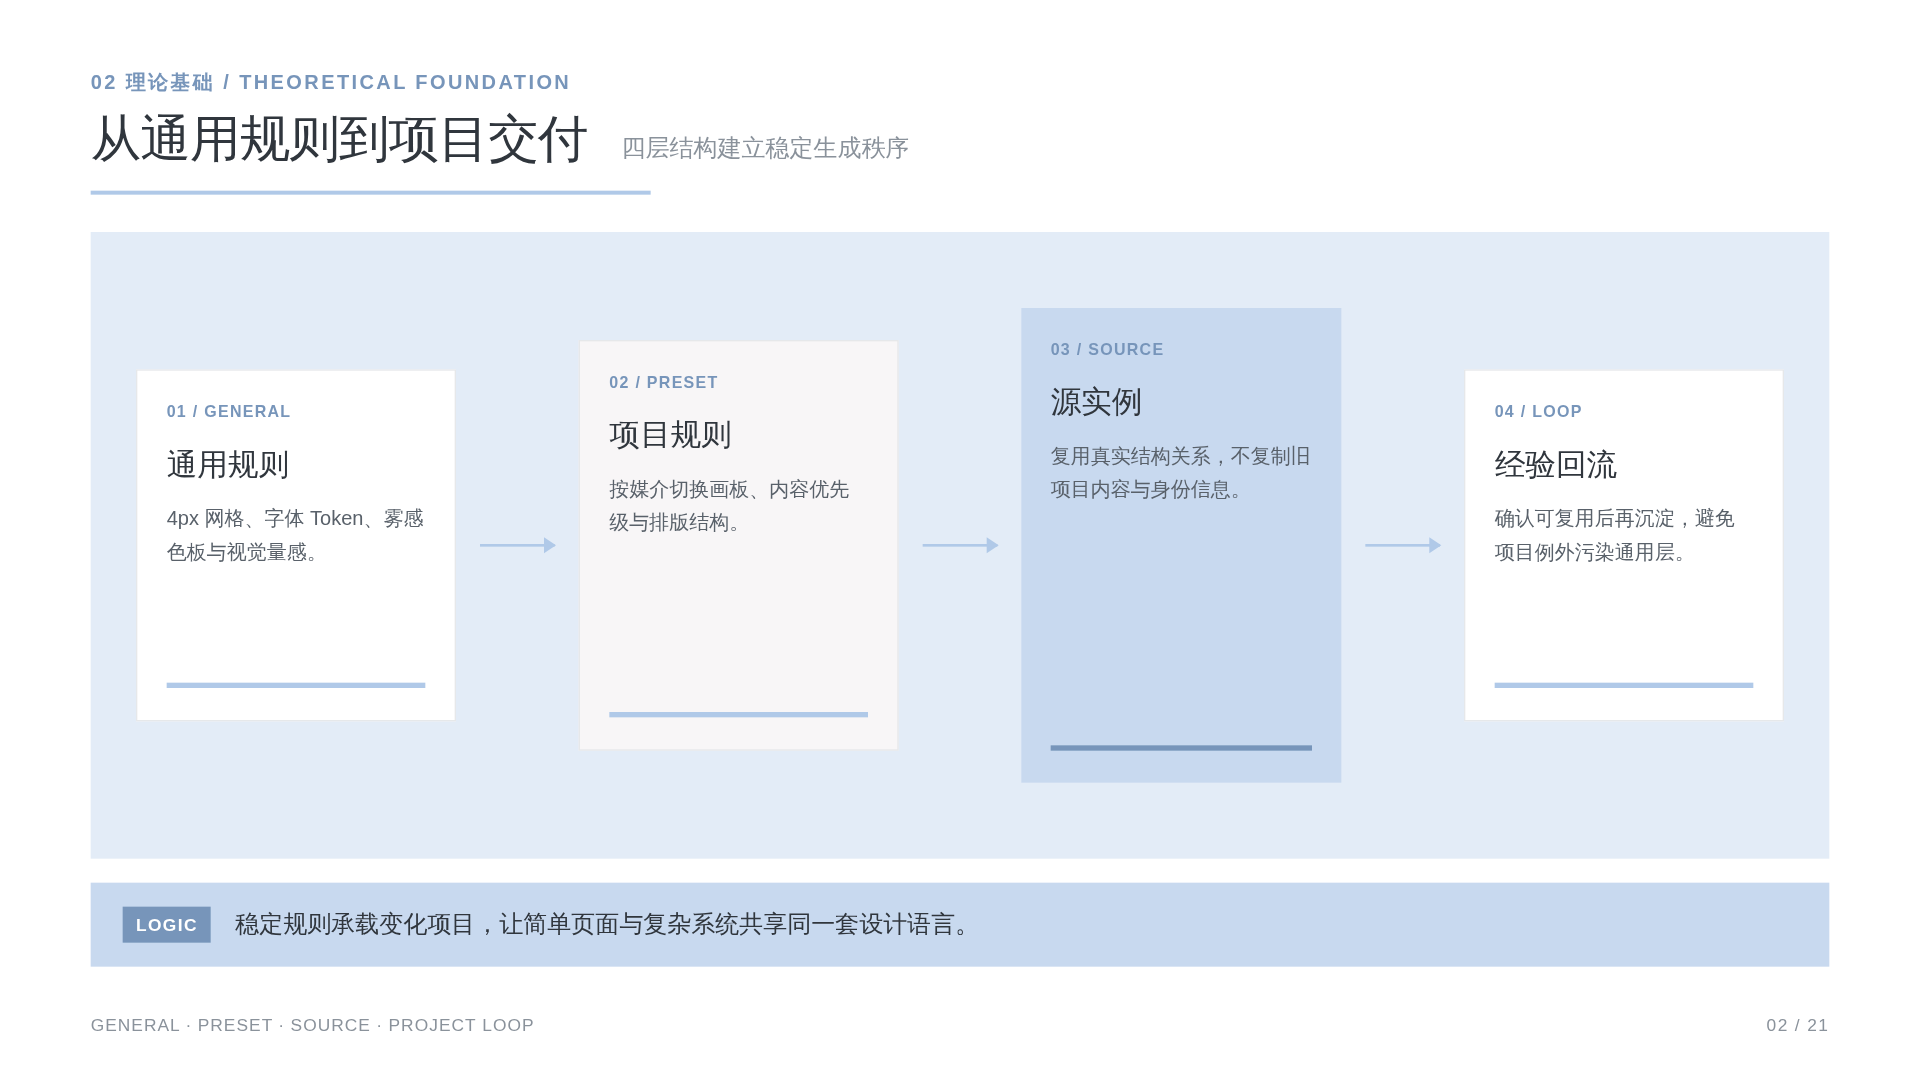
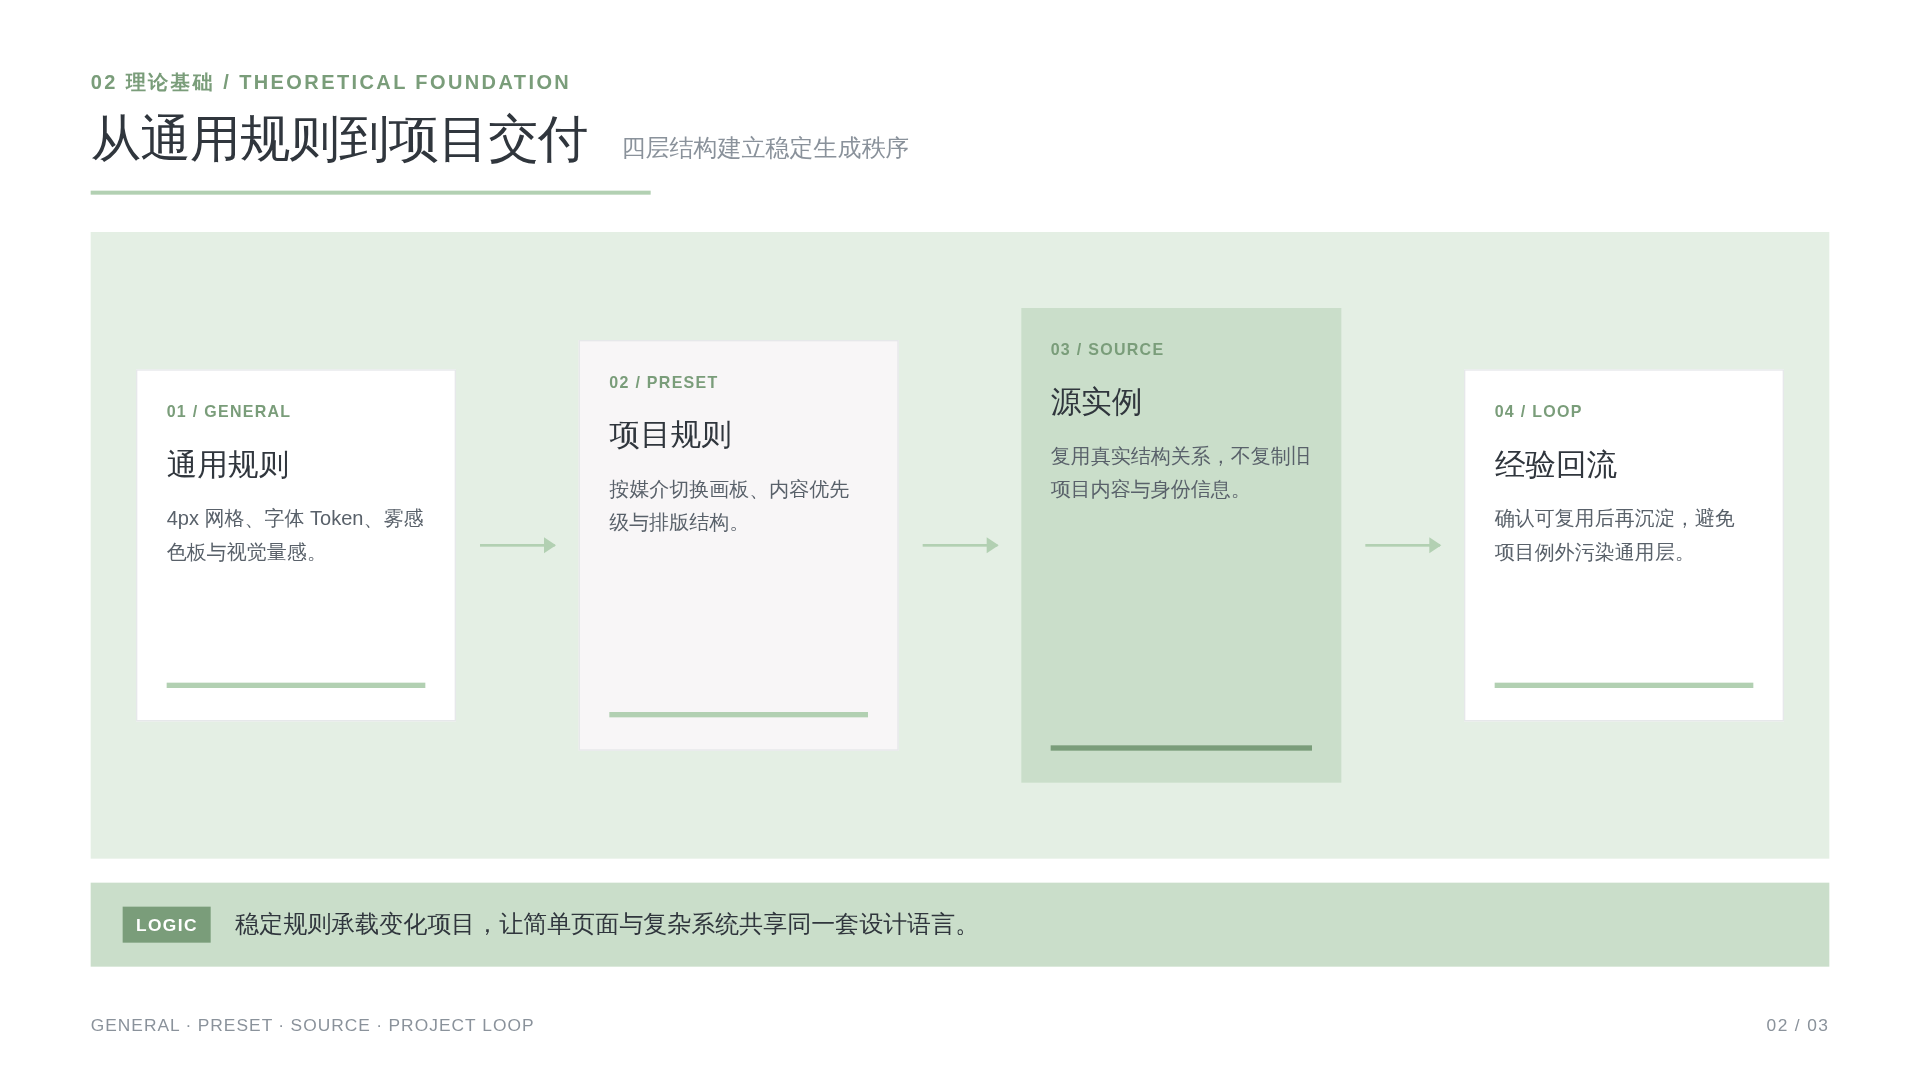
更新交付物预览编号与配色

diff --git a/design-minimalist-613/assets/template/projects/ppt-research/example.html b/design-minimalist-613/assets/template/projects/ppt-research/example.html
@@ -7,7 +7,7 @@
 <style>
 :root{--w:1440px;--h:810px;--ink:#30363D;--text:#59616A;--muted:#8A929B;--border:#E6E8EA;--surface:#F8F6F7;--font:"PingFang SC","Microsoft YaHei","Noto Sans CJK SC","Source Han Sans SC",sans-serif}
 *{box-sizing:border-box;margin:0;padding:0}html,body{width:100%;height:100%;overflow:hidden;background:#eceef1;font-family:var(--font);color:var(--ink);-webkit-font-smoothing:antialiased}.shell{position:fixed;inset:0;display:grid;place-items:center}.viewport{width:var(--w);height:var(--h);transform:scale(var(--scale,1));transform-origin:center}.deck{display:flex;width:max-content;height:var(--h);transform:translateX(calc(var(--page,0)*-1*var(--w)))}
-.slide{--p100:#EEE8F5;--p300:#DDD2EB;--p500:#CEBFE2;--p700:#9B88B3;width:var(--w);height:var(--h);flex:none;background:#fff;padding:52px 68px;position:relative;overflow:hidden}.slide.orange{--p100:#F5E8E0;--p300:#EBD2C2;--p500:#E2BEA7;--p700:#B2886C}.slide.blue{--p100:#E3ECF7;--p300:#C8D9EF;--p500:#B0C9E8;--p700:#7795BA}.slide.purple{--p100:#EEE8F5;--p300:#DDD2EB;--p500:#CEBFE2;--p700:#9B88B3}.header{margin-bottom:28px}.kicker{font-size:15px;line-height:1.35;letter-spacing:.12em;color:var(--p700);font-weight:600;margin-bottom:10px}.title{font-size:38px;line-height:1.2;font-weight:300;letter-spacing:-.02em}.title small{font-size:18px;color:var(--muted);font-weight:400;margin-left:16px;letter-spacing:0}.rule{height:3px;width:420px;background:var(--p500);margin-top:15px}.num{position:absolute;right:68px;bottom:34px;color:var(--muted);font-size:13px;letter-spacing:.08em}.meta{position:absolute;left:68px;bottom:34px;color:var(--muted);font-size:13px;letter-spacing:.06em}
+.slide{--p100:#EEE8F5;--p300:#DDD2EB;--p500:#CEBFE2;--p700:#9B88B3;width:var(--w);height:var(--h);flex:none;background:#fff;padding:52px 68px;position:relative;overflow:hidden}.slide.orange{--p100:#F5E8E0;--p300:#EBD2C2;--p500:#E2BEA7;--p700:#B2886C}.slide.green{--p100:#E4EFE4;--p300:#CADECA;--p500:#B2D0B2;--p700:#7A9D7A}.slide.purple{--p100:#EEE8F5;--p300:#DDD2EB;--p500:#CEBFE2;--p700:#9B88B3}.header{margin-bottom:28px}.kicker{font-size:15px;line-height:1.35;letter-spacing:.12em;color:var(--p700);font-weight:600;margin-bottom:10px}.title{font-size:38px;line-height:1.2;font-weight:300;letter-spacing:-.02em}.title small{font-size:18px;color:var(--muted);font-weight:400;margin-left:16px;letter-spacing:0}.rule{height:3px;width:420px;background:var(--p500);margin-top:15px}.num{position:absolute;right:68px;bottom:34px;color:var(--muted);font-size:13px;letter-spacing:.08em}.meta{position:absolute;left:68px;bottom:34px;color:var(--muted);font-size:13px;letter-spacing:.06em}
 .limit-grid{display:grid;grid-template-columns:1fr 1fr;gap:18px;margin-top:30px}.limit-card{min-height:188px;border:1px solid var(--border);padding:24px 28px;display:grid;grid-template-columns:58px 1fr;gap:18px;align-items:start;background:#fff}.limit-card:nth-child(2),.limit-card:nth-child(3){background:var(--surface)}.limit-index{font-size:34px;line-height:1;font-weight:300;color:var(--p700)}.limit-card h3{font-size:20px;line-height:1.35;font-weight:600;margin-bottom:9px}.limit-card p{font-size:16px;line-height:1.65;color:var(--text)}.conclusion{margin-top:18px;padding:18px 24px;background:var(--p300);display:flex;align-items:center;gap:18px}.conclusion b{font-size:13px;letter-spacing:.08em;padding:6px 10px;background:var(--p700);color:#fff}.conclusion span{font-size:18px}
 .theory-stage{height:470px;margin-top:20px;display:grid;grid-template-columns:1fr 92px 1fr 92px 1fr 92px 1fr;align-items:center;padding:34px;background:var(--p100)}.theory-node{height:264px;background:#fff;border:1px solid var(--border);padding:24px 22px;display:flex;flex-direction:column}.theory-node:nth-of-type(2){height:308px;background:var(--surface)}.theory-node.key{height:356px;border:0;background:var(--p300)}.theory-node .tag{font-size:12px;letter-spacing:.08em;color:var(--p700);font-weight:600}.theory-node h3{font-size:23px;line-height:1.3;margin-top:18px;font-weight:500}.theory-node p{font-size:15px;line-height:1.7;color:var(--text);margin-top:12px}.theory-node .bar{height:4px;margin-top:auto;background:var(--p500)}.theory-node.key .bar{background:var(--p700)}.arrow{height:2px;background:var(--p500);position:relative;margin:0 18px}.arrow:after{content:"";position:absolute;right:-1px;top:-5px;border-top:6px solid transparent;border-bottom:6px solid transparent;border-left:9px solid var(--p500)}
 .canvas-layout{display:grid;grid-template-columns:.56fr 1.74fr;gap:20px;height:554px}.canvas-notes{display:flex;flex-direction:column;justify-content:center;gap:15px}.note-item{padding:16px 18px;border-left:5px solid var(--p500);background:var(--surface)}.note-item b{display:block;font-size:18px;margin-bottom:5px}.note-item span{font-size:14px;line-height:1.55;color:var(--text)}.canvas-board{border:1px solid var(--border);padding:18px;background:#fff;display:flex;flex-direction:column}.canvas-head{height:58px;border-bottom:3px solid var(--p500);display:flex;justify-content:space-between;align-items:center}.canvas-head b{font-size:20px}.canvas-head span{font-size:12px;color:var(--p700);letter-spacing:.06em}.canvas-grid{flex:1;display:grid;grid-template-columns:repeat(5,1fr);grid-template-rows:1fr 1fr .72fr;gap:8px;margin-top:12px}.cell{border:1px solid var(--border);background:#fff;display:flex;flex-direction:column}.cell.soft{background:var(--surface)}.cell.key{border:2px solid var(--p700)}.cell h4{height:36px;padding:9px 11px;background:var(--p300);font-size:13px}.cell.key h4{background:var(--p700);color:#fff}.cell p{padding:11px;font-size:12px;line-height:1.75;color:var(--text)}.c1{grid-column:1;grid-row:1/span 2}.c2{grid-column:2;grid-row:1}.c3{grid-column:2;grid-row:2}.c4{grid-column:3;grid-row:1/span 2}.c5{grid-column:4;grid-row:1}.c6{grid-column:4;grid-row:2}.c7{grid-column:5;grid-row:1/span 2}.c8{grid-column:1/span 2;grid-row:3}.c9{grid-column:3/span 3;grid-row:3}
@@ -16,9 +16,9 @@
 </head>
 <body>
 <div class="shell"><div class="viewport"><main class="deck">
-<section class="slide orange"><header class="header"><div class="kicker">05 研究不足 / LIMITATIONS</div><h2 class="title">研究不足与待深化之处 <small>从问题识别到下一步行动</small></h2><div class="rule"></div></header><div class="limit-grid"><article class="limit-card"><span class="limit-index">01</span><div><h3>输入边界仍需扩展</h3><p>当前示例覆盖核心结构，后续补充更多尺寸、内容密度与跨媒介变量。</p></div></article><article class="limit-card"><span class="limit-index">02</span><div><h3>复杂层级需要验证</h3><p>在节点数量上升后，继续检查阅读轴、视觉量感与信息压缩是否稳定。</p></div></article><article class="limit-card"><span class="limit-index">03</span><div><h3>项目例外尚待沉淀</h3><p>特殊规则先保留在项目 preset，跨项目复用后再进入通用规范。</p></div></article><article class="limit-card"><span class="limit-index">04</span><div><h3>导出链路持续校验</h3><p>固定画板、字体替换与图片比例需要在 HTML、PDF、PPT 间反复检查。</p></div></article></div><div class="conclusion"><b>NEXT</b><span>不足不是附注，而是下一轮 Project Loop 的输入。</span></div><span class="meta">DESIGN MINIMALIST 613 · FIXED CANVAS</span><span class="num">05 / 21</span></section>
-<section class="slide blue"><header class="header"><div class="kicker">02 理论基础 / THEORETICAL FOUNDATION</div><h2 class="title">从通用规则到项目交付 <small>四层结构建立稳定生成秩序</small></h2><div class="rule"></div></header><div class="theory-stage"><article class="theory-node"><span class="tag">01 / GENERAL</span><h3>通用规则</h3><p>4px 网格、字体 Token、雾感色板与视觉量感。</p><i class="bar"></i></article><i class="arrow"></i><article class="theory-node"><span class="tag">02 / PRESET</span><h3>项目规则</h3><p>按媒介切换画板、内容优先级与排版结构。</p><i class="bar"></i></article><i class="arrow"></i><article class="theory-node key"><span class="tag">03 / SOURCE</span><h3>源实例</h3><p>复用真实结构关系，不复制旧项目内容与身份信息。</p><i class="bar"></i></article><i class="arrow"></i><article class="theory-node"><span class="tag">04 / LOOP</span><h3>经验回流</h3><p>确认可复用后再沉淀，避免项目例外污染通用层。</p><i class="bar"></i></article></div><div class="conclusion"><b>LOGIC</b><span>稳定规则承载变化项目，让简单页面与复杂系统共享同一套设计语言。</span></div><span class="meta">GENERAL · PRESET · SOURCE · PROJECT LOOP</span><span class="num">02 / 21</span></section>
-<section class="slide purple"><header class="header"><div class="kicker">04 商业模式 / COMPLEX CANVAS</div><h2 class="title">复杂画布结构 <small>多模块、多层级、多关系的同屏编排</small></h2><div class="rule"></div></header><div class="canvas-layout"><aside class="canvas-notes"><div class="note-item"><b>共享列轨</b><span>同类卡片等宽、同高、同标题基线。</span></div><div class="note-item"><b>最小充分强调</b><span>重色只落在关键节点与小标签。</span></div><div class="note-item"><b>固定阅读轴</b><span>从输入、核心到输出，复杂但不混乱。</span></div><div class="conclusion" style="margin-top:0"><b>DM613</b><span style="font-size:15px">Token → Preset → 结构参考</span></div></aside><section class="canvas-board"><div class="canvas-head"><b>Design Minimalist 613 · Canvas</b><span>TOKEN · PRESET · SAMPLE</span></div><div class="canvas-grid"><div class="cell soft c1"><h4>模块 A</h4><p>输入 01<br>输入 02<br>约束条件<br>参考结构<br>示例字段</p></div><div class="cell c2"><h4>模块 B</h4><p>Preset B<br>Token 03</p></div><div class="cell soft c3"><h4>模块 C</h4><p>Preset C<br>结构参考</p></div><div class="cell key c4"><h4>核心模块</h4><p>Design Minimalist 613<br>固定画板<br>视觉量感<br>统一 Token<br>Project Loop</p></div><div class="cell soft c5"><h4>关键动作</h4><p>筛选<br>组织<br>对齐</p></div><div class="cell c6"><h4>验证</h4><p>可读性<br>完整性</p></div><div class="cell soft c7"><h4>输出</h4><p>PPT<br>简历<br>网页<br>PDF<br>海报</p></div><div class="cell c8"><h4>辅助结构</h4><p>源实例 · 项目资产 · 匿名内容</p></div><div class="cell key c9"><h4>最终交付</h4><p>从规则到结果 · 由简单到复杂 · 快速生成</p></div></div></section></div><span class="meta">DESIGN MINIMALIST 613 · COMPLEX CANVAS</span><span class="num">04 / 21</span></section>
+<section class="slide orange"><header class="header"><div class="kicker">01 研究不足 / LIMITATIONS</div><h2 class="title">研究不足与待深化之处 <small>从问题识别到下一步行动</small></h2><div class="rule"></div></header><div class="limit-grid"><article class="limit-card"><span class="limit-index">01</span><div><h3>输入边界仍需扩展</h3><p>当前示例覆盖核心结构，后续补充更多尺寸、内容密度与跨媒介变量。</p></div></article><article class="limit-card"><span class="limit-index">02</span><div><h3>复杂层级需要验证</h3><p>在节点数量上升后，继续检查阅读轴、视觉量感与信息压缩是否稳定。</p></div></article><article class="limit-card"><span class="limit-index">03</span><div><h3>项目例外尚待沉淀</h3><p>特殊规则先保留在项目 preset，跨项目复用后再进入通用规范。</p></div></article><article class="limit-card"><span class="limit-index">04</span><div><h3>导出链路持续校验</h3><p>固定画板、字体替换与图片比例需要在 HTML、PDF、PPT 间反复检查。</p></div></article></div><div class="conclusion"><b>NEXT</b><span>不足不是附注，而是下一轮 Project Loop 的输入。</span></div><span class="meta">DESIGN MINIMALIST 613 · FIXED CANVAS</span><span class="num">01 / 03</span></section>
+<section class="slide green"><header class="header"><div class="kicker">02 理论基础 / THEORETICAL FOUNDATION</div><h2 class="title">从通用规则到项目交付 <small>四层结构建立稳定生成秩序</small></h2><div class="rule"></div></header><div class="theory-stage"><article class="theory-node"><span class="tag">01 / GENERAL</span><h3>通用规则</h3><p>4px 网格、字体 Token、雾感色板与视觉量感。</p><i class="bar"></i></article><i class="arrow"></i><article class="theory-node"><span class="tag">02 / PRESET</span><h3>项目规则</h3><p>按媒介切换画板、内容优先级与排版结构。</p><i class="bar"></i></article><i class="arrow"></i><article class="theory-node key"><span class="tag">03 / SOURCE</span><h3>源实例</h3><p>复用真实结构关系，不复制旧项目内容与身份信息。</p><i class="bar"></i></article><i class="arrow"></i><article class="theory-node"><span class="tag">04 / LOOP</span><h3>经验回流</h3><p>确认可复用后再沉淀，避免项目例外污染通用层。</p><i class="bar"></i></article></div><div class="conclusion"><b>LOGIC</b><span>稳定规则承载变化项目，让简单页面与复杂系统共享同一套设计语言。</span></div><span class="meta">GENERAL · PRESET · SOURCE · PROJECT LOOP</span><span class="num">02 / 03</span></section>
+<section class="slide purple"><header class="header"><div class="kicker">03 商业模式 / COMPLEX CANVAS</div><h2 class="title">复杂画布结构 <small>多模块、多层级、多关系的同屏编排</small></h2><div class="rule"></div></header><div class="canvas-layout"><aside class="canvas-notes"><div class="note-item"><b>共享列轨</b><span>同类卡片等宽、同高、同标题基线。</span></div><div class="note-item"><b>最小充分强调</b><span>重色只落在关键节点与小标签。</span></div><div class="note-item"><b>固定阅读轴</b><span>从输入、核心到输出，复杂但不混乱。</span></div><div class="conclusion" style="margin-top:0"><b>DM613</b><span style="font-size:15px">Token → Preset → 结构参考</span></div></aside><section class="canvas-board"><div class="canvas-head"><b>Design Minimalist 613 · Canvas</b><span>TOKEN · PRESET · SAMPLE</span></div><div class="canvas-grid"><div class="cell soft c1"><h4>模块 A</h4><p>输入 01<br>输入 02<br>约束条件<br>参考结构<br>示例字段</p></div><div class="cell c2"><h4>模块 B</h4><p>Preset B<br>Token 03</p></div><div class="cell soft c3"><h4>模块 C</h4><p>Preset C<br>结构参考</p></div><div class="cell key c4"><h4>核心模块</h4><p>Design Minimalist 613<br>固定画板<br>视觉量感<br>统一 Token<br>Project Loop</p></div><div class="cell soft c5"><h4>关键动作</h4><p>筛选<br>组织<br>对齐</p></div><div class="cell c6"><h4>验证</h4><p>可读性<br>完整性</p></div><div class="cell soft c7"><h4>输出</h4><p>PPT<br>简历<br>网页<br>PDF<br>海报</p></div><div class="cell c8"><h4>辅助结构</h4><p>源实例 · 项目资产 · 匿名内容</p></div><div class="cell key c9"><h4>最终交付</h4><p>从规则到结果 · 由简单到复杂 · 快速生成</p></div></div></section></div><span class="meta">DESIGN MINIMALIST 613 · COMPLEX CANVAS</span><span class="num">03 / 03</span></section>
 </main></div></div>
 <script>(function(){const slides=[...document.querySelectorAll('.slide')];let page=0;function fit(){document.documentElement.style.setProperty('--scale',Math.min(innerWidth/1440,innerHeight/810))}function go(n){page=(n+slides.length)%slides.length;document.documentElement.style.setProperty('--page',page)}addEventListener('resize',fit,{passive:true});addEventListener('keydown',e=>{if(['ArrowRight','PageDown',' '].includes(e.key))go(page+1);if(['ArrowLeft','PageUp'].includes(e.key))go(page-1)});fit()})();</script>
 </body>

diff --git a/asset-preview/index.html b/asset-preview/index.html
@@ -27,9 +27,9 @@ main{width:min(1280px,90vw);margin:0 auto;padding:72px 0 96px}.hero{display:grid
   <section class="hero"><div><div class="kicker">ASSET GALLERY · DESIGN SYSTEM</div><h1>一次查看全部<em>设计资产</em></h1></div><p class="intro">在同一页面浏览 PPT、个人网页、简历生成方式与完整设计哲学，不必逐个打开源代码，也能快速理解这套 Skill 的视觉效果和使用方式。</p></section>
 
   <section class="section" id="ppt"><div class="section-head"><div><div class="section-index">01 / PRESENTATION</div><h2>研究型演示</h2></div><a class="source" href="https://github.com/yican-hub/Design_minimalist_613/blob/main/design-minimalist-613/assets/template/projects/ppt-research/example.html">查看源 HTML ↗</a></div><div class="gallery">
-    <figure class="frame"><img src="assets/ppt-05-limitations.png" alt="研究不足页面"><figcaption class="caption"><strong>05 研究不足</strong><span>四项问题卡片与结论栏</span></figcaption></figure>
+    <figure class="frame"><img src="assets/ppt-01-limitations.png" alt="研究不足页面"><figcaption class="caption"><strong>01 研究不足</strong><span>四项问题卡片与结论栏</span></figcaption></figure>
     <figure class="frame"><img src="assets/ppt-02-theory.png" alt="理论基础页面"><figcaption class="caption"><strong>02 理论基础</strong><span>由通用规则到项目交付</span></figcaption></figure>
-    <figure class="frame"><img src="assets/ppt-04-business-canvas.png" alt="复杂画布页面"><figcaption class="caption"><strong>04 复杂画布</strong><span>多模块、多层级、多关系编排</span></figcaption></figure>
+    <figure class="frame"><img src="assets/ppt-03-business-canvas.png" alt="复杂画布页面"><figcaption class="caption"><strong>03 复杂画布</strong><span>多模块、多层级、多关系编排</span></figcaption></figure>
   </div></section>
 
   <section class="section" id="web"><div class="section-head"><div><div class="section-index">02 / PERSONAL WEB</div><h2>个人网页首图</h2></div><a class="source" href="https://github.com/yican-hub/Design_minimalist_613/blob/main/design-minimalist-613/assets/template/projects/personal-web/example.html">查看源 HTML ↗</a></div><figure class="frame"><img src="assets/web-personal-anonymized.png" alt="个人网页首图"><figcaption class="caption"><strong>人物视觉 × 超大标题</strong><span>固定画板 1440 × 920</span></figcaption></figure></section>

diff --git a/README.md b/README.md
@@ -40,17 +40,17 @@ Design Minimalist 613 的核心不是复刻某一种视觉风格，而是先把*
 
 ### PPT｜由简单到复杂，快速生成
 
-**05 研究不足｜四项待深化问题**
+**01 研究不足｜四项待深化问题**
 
-![PPT 05 研究不足完整页](readme-assets/ppt-05-limitations.png)
+![PPT 01 研究不足完整页](readme-assets/ppt-01-limitations.png)
 
 **02 理论基础｜理论演变谱系**
 
 ![PPT 02 理论基础完整页](readme-assets/ppt-02-theory.png)
 
-**04 商业模式｜复杂画布结构**
+**03 商业模式｜复杂画布结构**
 
-![PPT 04 商业模式复杂画布](readme-assets/ppt-04-business-canvas.png)
+![PPT 03 商业模式复杂画布](readme-assets/ppt-03-business-canvas.png)
 
 ### 网页｜匿名首图结构与图文编排
 
